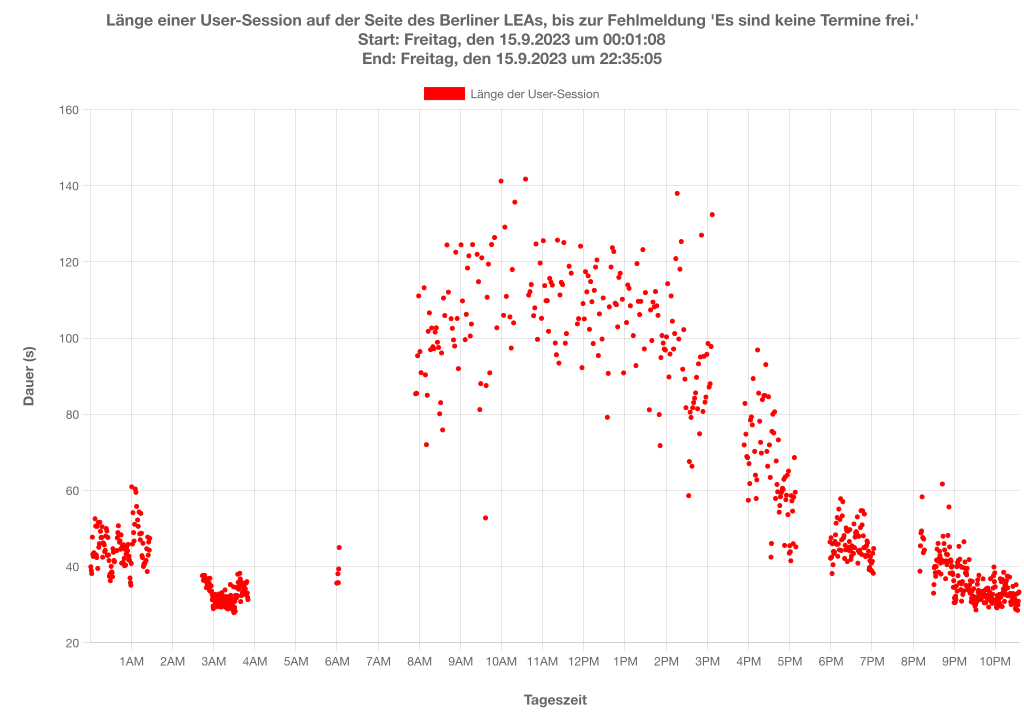
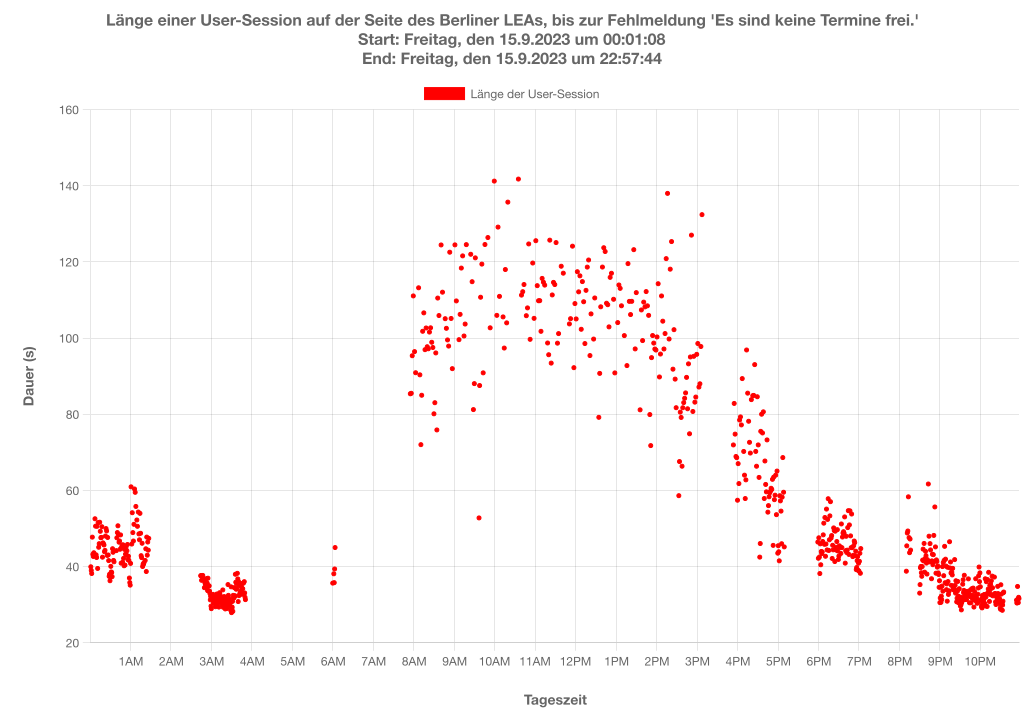
Format time and new data.

diff --git a/src/models/graphs/NoAppointmentsSessionLengthGraph.ts b/src/models/graphs/NoAppointmentsSessionLengthGraph.ts
@@ -1,8 +1,7 @@
 import { ChartType } from 'chart.js';
 import Graph from './Graph';
 import { TimeUnit } from '../TimeDuration';
-import { LOCALE } from '../../config';
-import { getWeekday } from '../../utils/time';
+import { formatDate } from '../../utils/time';
 import Session from '../sessions/Session';
 
 class NoAppointmentsSessionLengthGraph extends Graph<Session[]> {
@@ -17,8 +16,8 @@ class NoAppointmentsSessionLengthGraph extends Graph<Session[]> {
             type: 'scatter' as ChartType,
             title: [
                 `Länge einer User-Session auf der Seite des Berliner LEAs, bis zur Fehlmeldung 'Es sind keine Termine frei.'`,
-                `Start: ${getWeekday(start)}, den ${start.toLocaleString(LOCALE).replace(', ', ' um ')}`,
-                `End: ${getWeekday(end)}, den ${end.toLocaleString(LOCALE).replace(', ', ' um ')}`,
+                `Start: ${formatDate(start, 'de')}`,
+                `End: ${formatDate(end, 'de')}`,
             ],
             xAxisLabel: `Tageszeit`,
             yAxisLabel: `Dauer (${yUnit})`,

diff --git a/src/utils/time.ts b/src/utils/time.ts
@@ -1,3 +1,4 @@
+import { LOCALE } from '../config';
 import logger from '../logger';
 import TimeDuration from '../models/TimeDuration';
 
@@ -15,4 +16,11 @@ export const sleep = async (duration: TimeDuration) => {
 
 export const getWeekday = (date: Date) => {
     return WEEKDAYS[date.getDay()];
+}
+
+export const formatDate = (date: Date, locale: string = LOCALE) => {
+    switch (locale) {
+        case 'de':
+            return `${getWeekday(date)}, den ${date.toLocaleString('de').replace(', ', ' um ')}`;
+        }
 }
